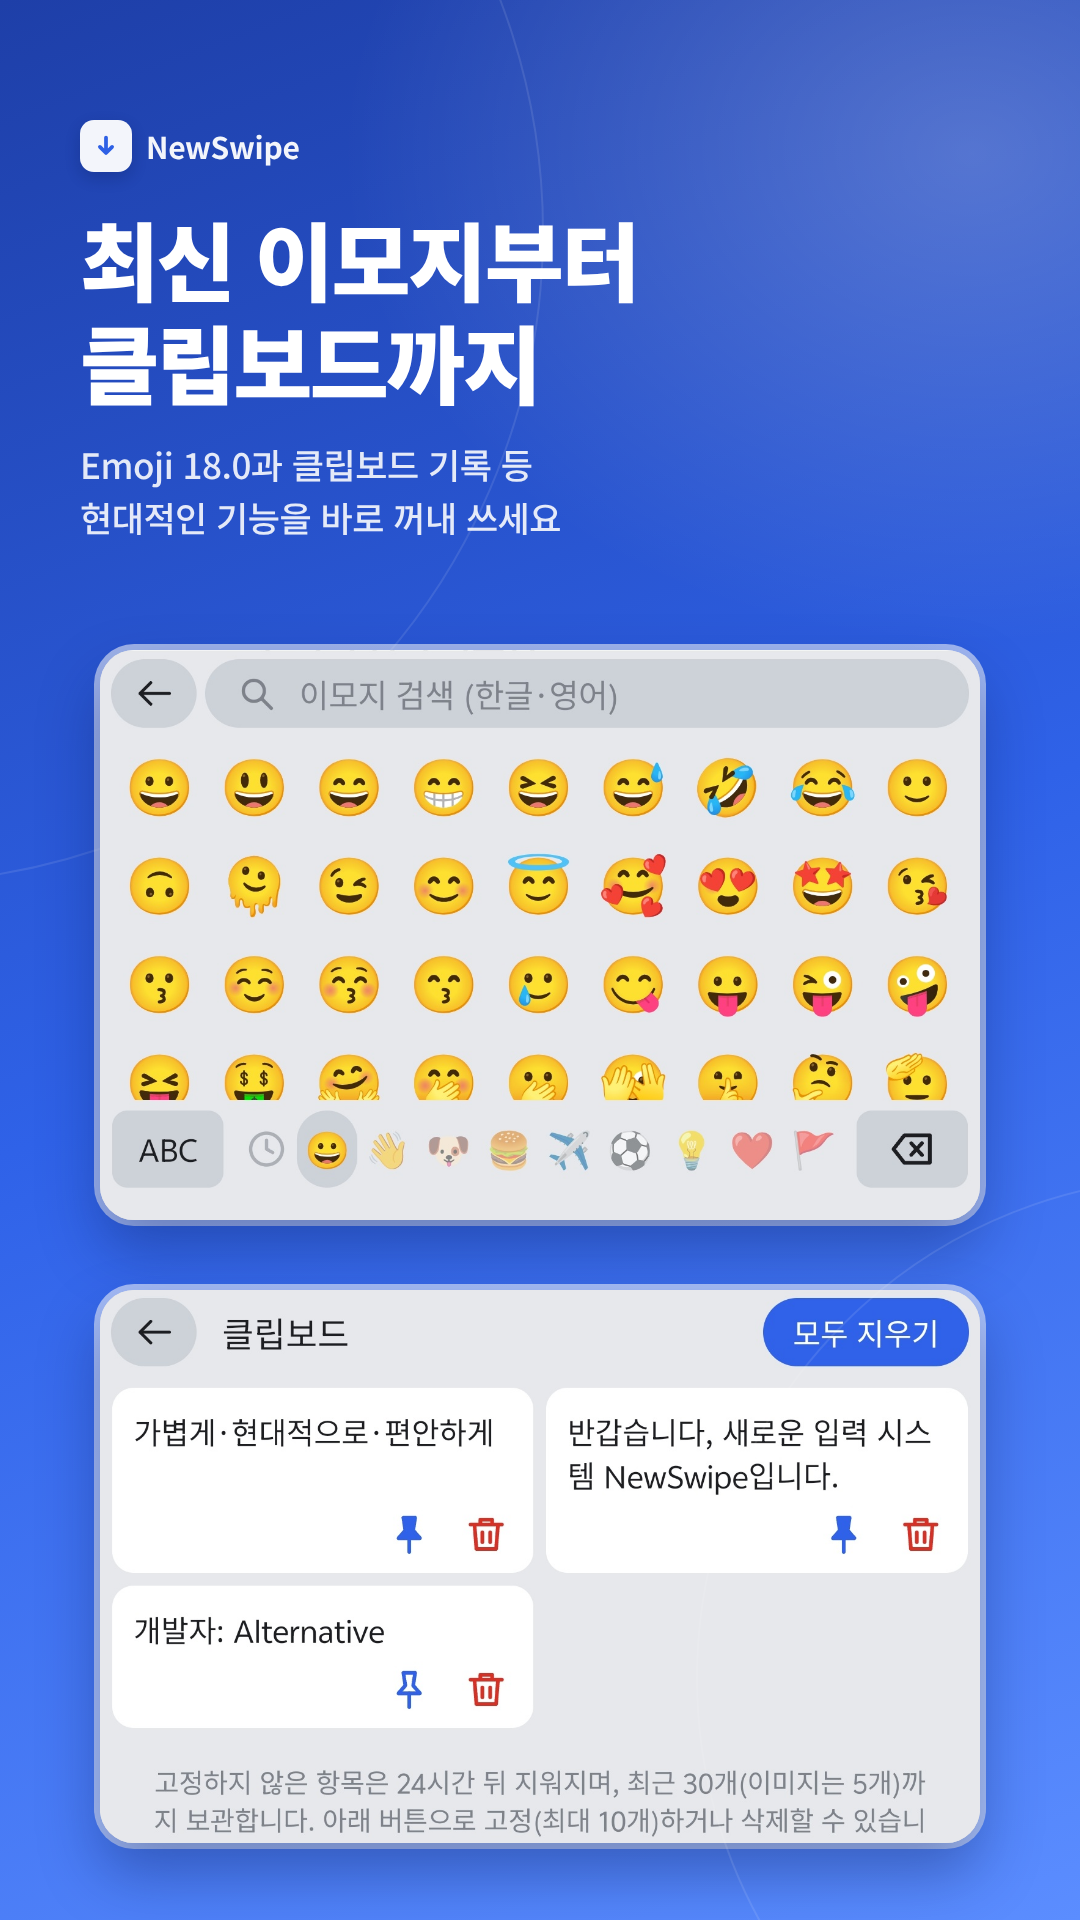
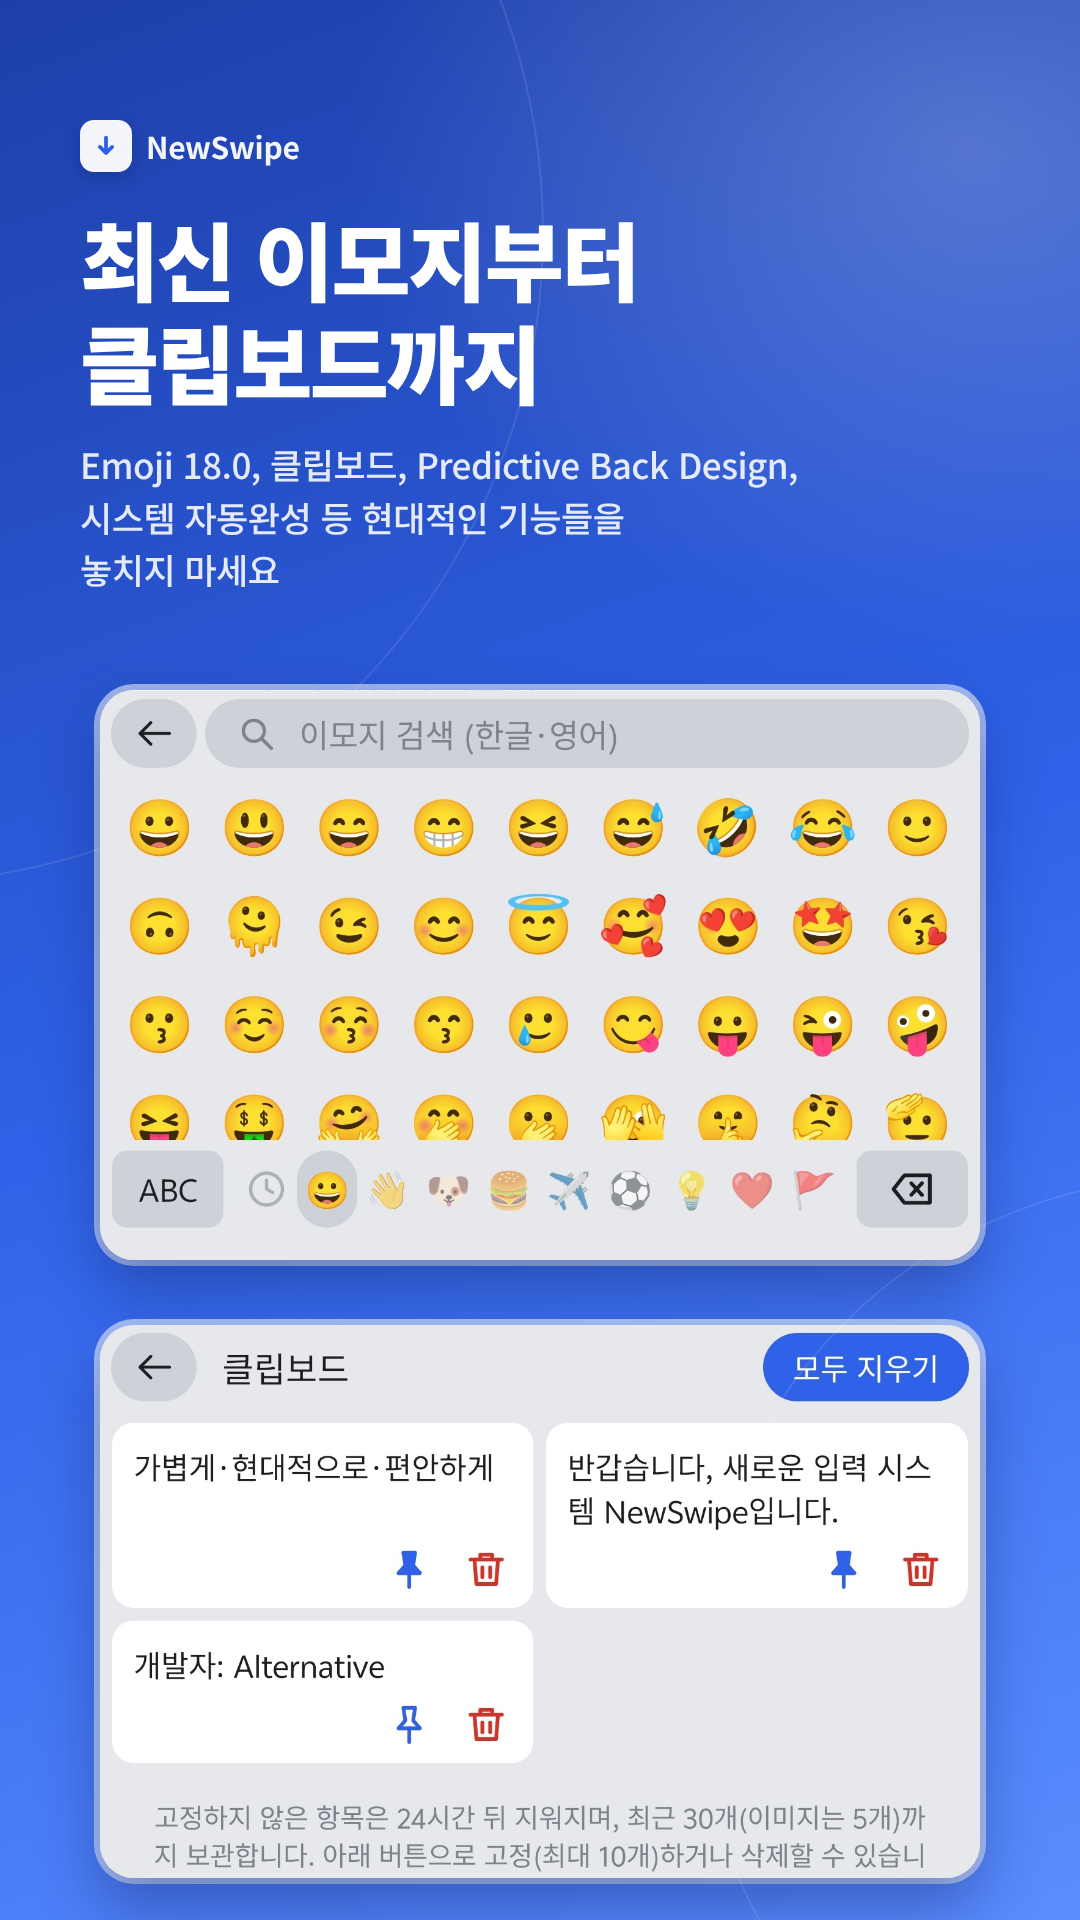
Update emoji/clipboard screenshot subtitle
Claude-Session: https://claude.ai/code/session_01AwdWyN99B5N53CxBWipQNM

Changed region(s): [[0.0611, 0.2188, 0.9167, 0.8438], [0.0917, 0.875, 0.9167, 1.0], [0.1222, 0.8438, 0.3667, 0.875]]

diff --git a/docs/play-store/screenshots/src/shots.html b/docs/play-store/screenshots/src/shots.html
@@ -170,11 +170,11 @@
   <div class="head">
     <div class="brand"><span class="ic"><svg width="30" height="30" viewBox="0 0 64 64"><path d="M32 14v32M19 34l13 13 13-13" fill="none" stroke="#2F62E8" stroke-width="8" stroke-linecap="round" stroke-linejoin="round"/></svg></span>NewSwipe</div>
     <h1>최신 이모지부터<br>클립보드까지</h1>
-    <p>Emoji 18.0과 클립보드 기록 등<br>현대적인 기능을 바로 꺼내 쓰세요</p>
+    <p>Emoji 18.0, 클립보드, Predictive Back Design,<br>시스템 자동완성 등 현대적인 기능들을<br>놓치지 마세요</p>
   </div>
 
-  <div class="card" style="left:100px; top:650px; width:880px;"><img src="img/emoji.jpg"></div>
-  <div class="card" style="left:100px; top:1290px; width:880px; height:553px;"><img src="img/clipboard.jpg"></div>
+  <div class="card" style="left:100px; top:690px; width:880px;"><img src="img/emoji.jpg"></div>
+  <div class="card" style="left:100px; top:1325px; width:880px; height:553px;"><img src="img/clipboard.jpg"></div>
 </section>
 
 </body>
